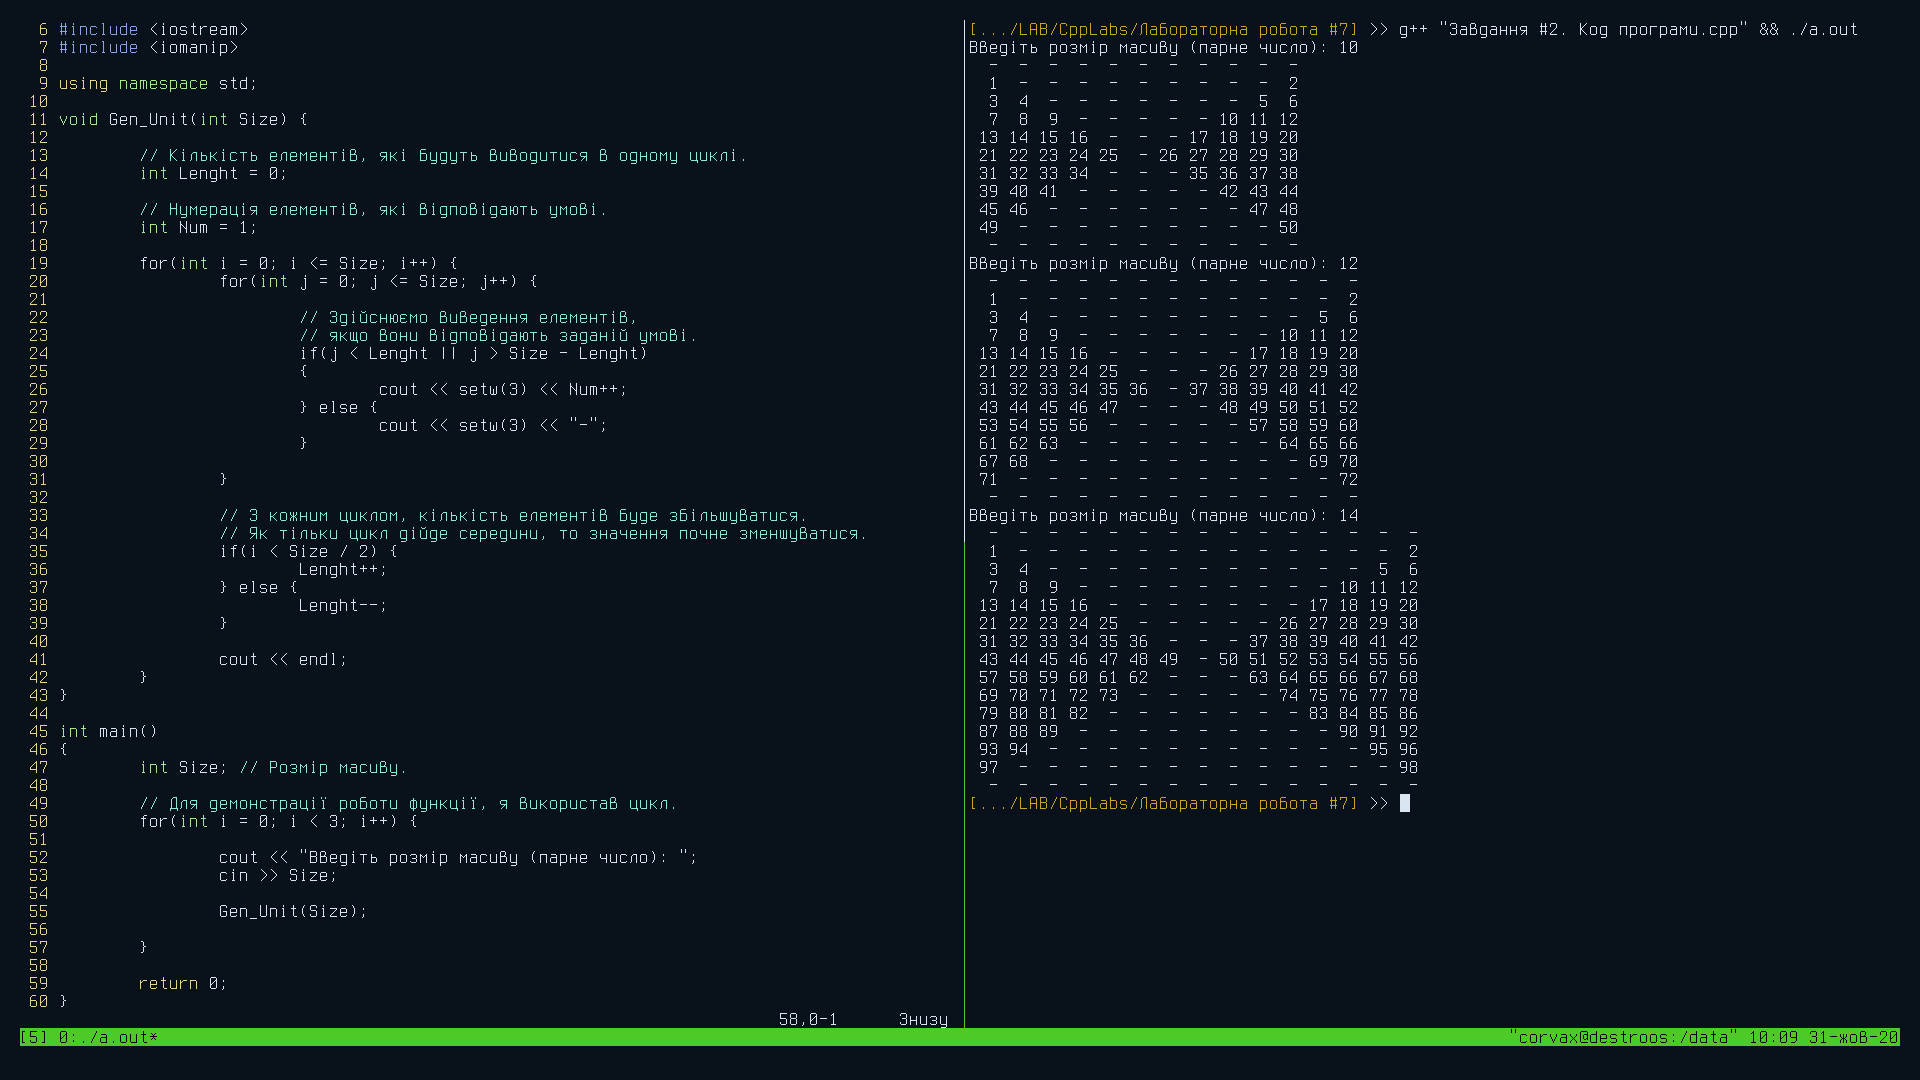
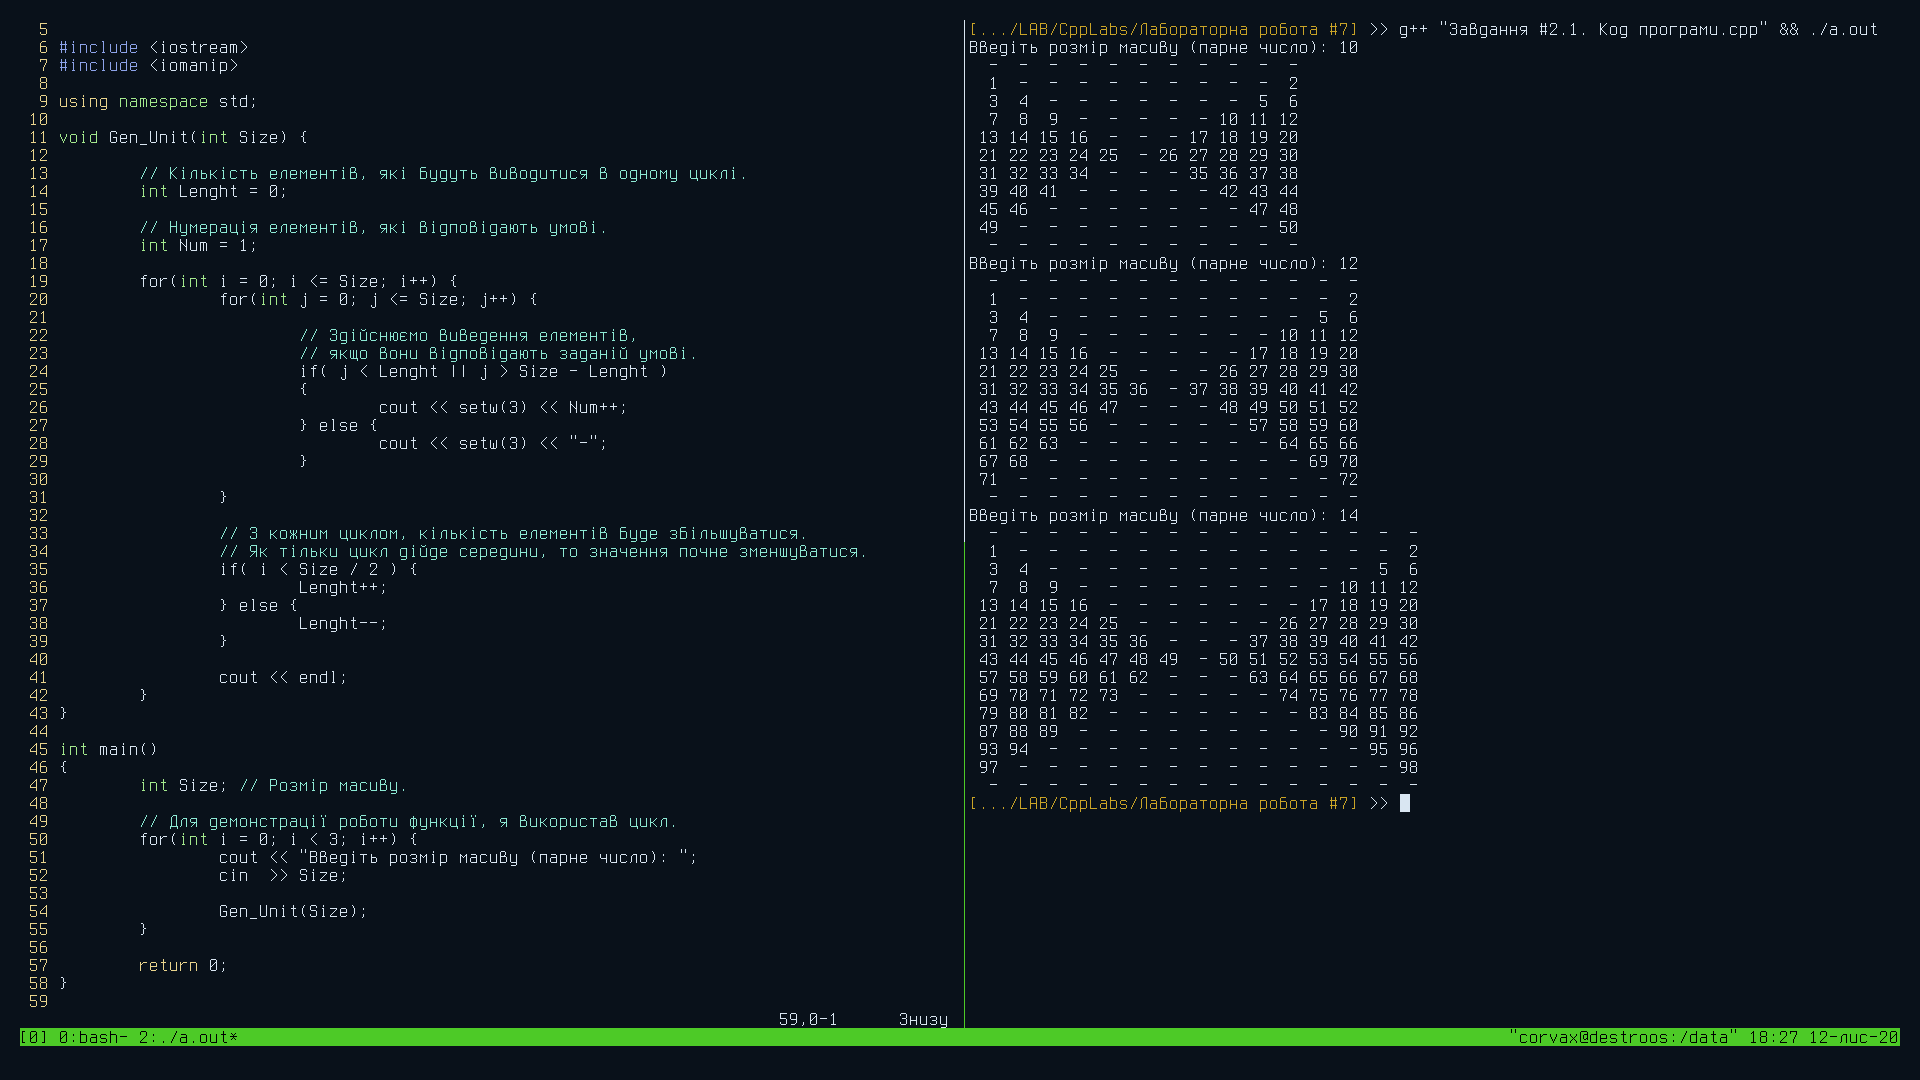
Збереження роботи. Виправлення.

diff --git a/Лабораторна робота #6/Завдання #2.2. Код програми.cpp b/Лабораторна робота #6/Завдання #2.2. Код програми.cpp
@@ -1,4 +1,4 @@
-// Лабораторна робота #7. Завдання #2.1. Варіант #15.
+// Лабораторна робота #6. Завдання #2.2. Варіант #15.
 //
 // В данній роботі, замість нулів я використав знак "-",
 // для того, щоб результат роботи було чітко видно.
@@ -8,22 +8,27 @@
 
 using namespace std;
 
-void Gen_Unit(int Size) {
+int main()
+{
+	int *pSize   = new int; // Розмір масиву.
 
 	// Кількість елементів, які будуть виводитися в одному циклі.
-	int Lenght = 0;
+	int *pLenght = new int(0);
 
 	// Нумерація елементів, які відповідають умові.
-	int Num = 1;
+	int *pNum    = new int(1);
 
-	for(int i = 0; i <= Size; i++) {
-		for(int j = 0; j <= Size; j++) {
+	cout << "Введіть розмір масиву (парне число): ";
+	cin  >> *pSize;
+
+	for(int i = 0; i <= *pSize; i++) {
+		for(int j = 0; j <= *pSize; j++) {
 
 			// Здійснюємо виведення елементів,
 			// якщо вони відповідають заданій умові.
-			if( j < Lenght || j > Size - Lenght )
+			if( j < *pLenght || j > *pSize - *pLenght )
 			{
-				cout << setw(3) << Num++;
+				cout << setw(3) << (*pNum)++;
 			} else {
 				cout << setw(3) << "-";
 			}
@@ -32,26 +37,13 @@ void Gen_Unit(int Size) {
 
 		// З кожним циклом, кількість елементів буде збільшуватися.
 		// Як тільки цикл дійде середини, то значення почне зменшуватися.
-		if( i < Size / 2 ) {
-			Lenght++;
+		if( i < *pSize / 2 ) {
+			(*pLenght)++;
 		} else {
-			Lenght--;
+			(*pLenght)--;
 		}
 
 		cout << endl;
-	}
-}
-
-int main()
-{
-	int Size; // Розмір масиву.
-
-	// Для демонстрації роботи функції, я використав цикл.
-	for(int i = 0; i < 3; i++) {
-		cout << "Введіть розмір масиву (парне число): ";
-		cin  >> Size;
-
-		Gen_Unit(Size);
 	}
 
 	return 0;

diff --git a/Лабораторна робота #7/Завдання #2.2. Код програми.cpp b/Лабораторна робота #7/Завдання #2.2. Код програми.cpp
@@ -1,4 +1,4 @@
-// Лабораторна робота #7. Завдання #2.1. Варіант #15.
+// Лабораторна робота #7. Завдання #2.2. Варіант #15.
 //
 // В данній роботі, замість нулів я використав знак "-",
 // для того, щоб результат роботи було чітко видно.
@@ -8,7 +8,7 @@
 
 using namespace std;
 
-void Gen_Unit(int Size) {
+void Gen_Unit(int *pSize) {
 
 	// Кількість елементів, які будуть виводитися в одному циклі.
 	int Lenght = 0;
@@ -16,12 +16,12 @@ void Gen_Unit(int Size) {
 	// Нумерація елементів, які відповідають умові.
 	int Num = 1;
 
-	for(int i = 0; i <= Size; i++) {
-		for(int j = 0; j <= Size; j++) {
+	for(int i = 0; i <= *pSize; i++) {
+		for(int j = 0; j <= *pSize; j++) {
 
 			// Здійснюємо виведення елементів,
 			// якщо вони відповідають заданій умові.
-			if( j < Lenght || j > Size - Lenght )
+			if( j < Lenght || j > *pSize - Lenght )
 			{
 				cout << setw(3) << Num++;
 			} else {
@@ -32,7 +32,7 @@ void Gen_Unit(int Size) {
 
 		// З кожним циклом, кількість елементів буде збільшуватися.
 		// Як тільки цикл дійде середини, то значення почне зменшуватися.
-		if( i < Size / 2 ) {
+		if( i < *pSize / 2 ) {
 			Lenght++;
 		} else {
 			Lenght--;
@@ -51,7 +51,7 @@ int main()
 		cout << "Введіть розмір масиву (парне число): ";
 		cin  >> Size;
 
-		Gen_Unit(Size);
+		Gen_Unit(&Size);
 	}
 
 	return 0;

diff --git a/Лабораторна робота #6/Завдання #2.1. Код програми.cpp b/Лабораторна робота #6/Завдання #2.1. Код програми.cpp
@@ -1,4 +1,4 @@
-// Лабораторна робота #6. Завдання #2. Варіант #15.
+// Лабораторна робота #6. Завдання #2.1. Варіант #15.
 //
 // В данній роботі, замість нулів я використав знак "-",
 // для того, щоб результат роботи було чітко видно.
@@ -23,7 +23,7 @@ int main()
 	int *pNum    = &Num;
 
 	cout << "Введіть розмір масиву (парне число): ";
-	cin >> *pSize;
+	cin  >> *pSize;
 
 	for(int i = 0; i <= *pSize; i++) {
 		for(int j = 0; j <= *pSize; j++) {
